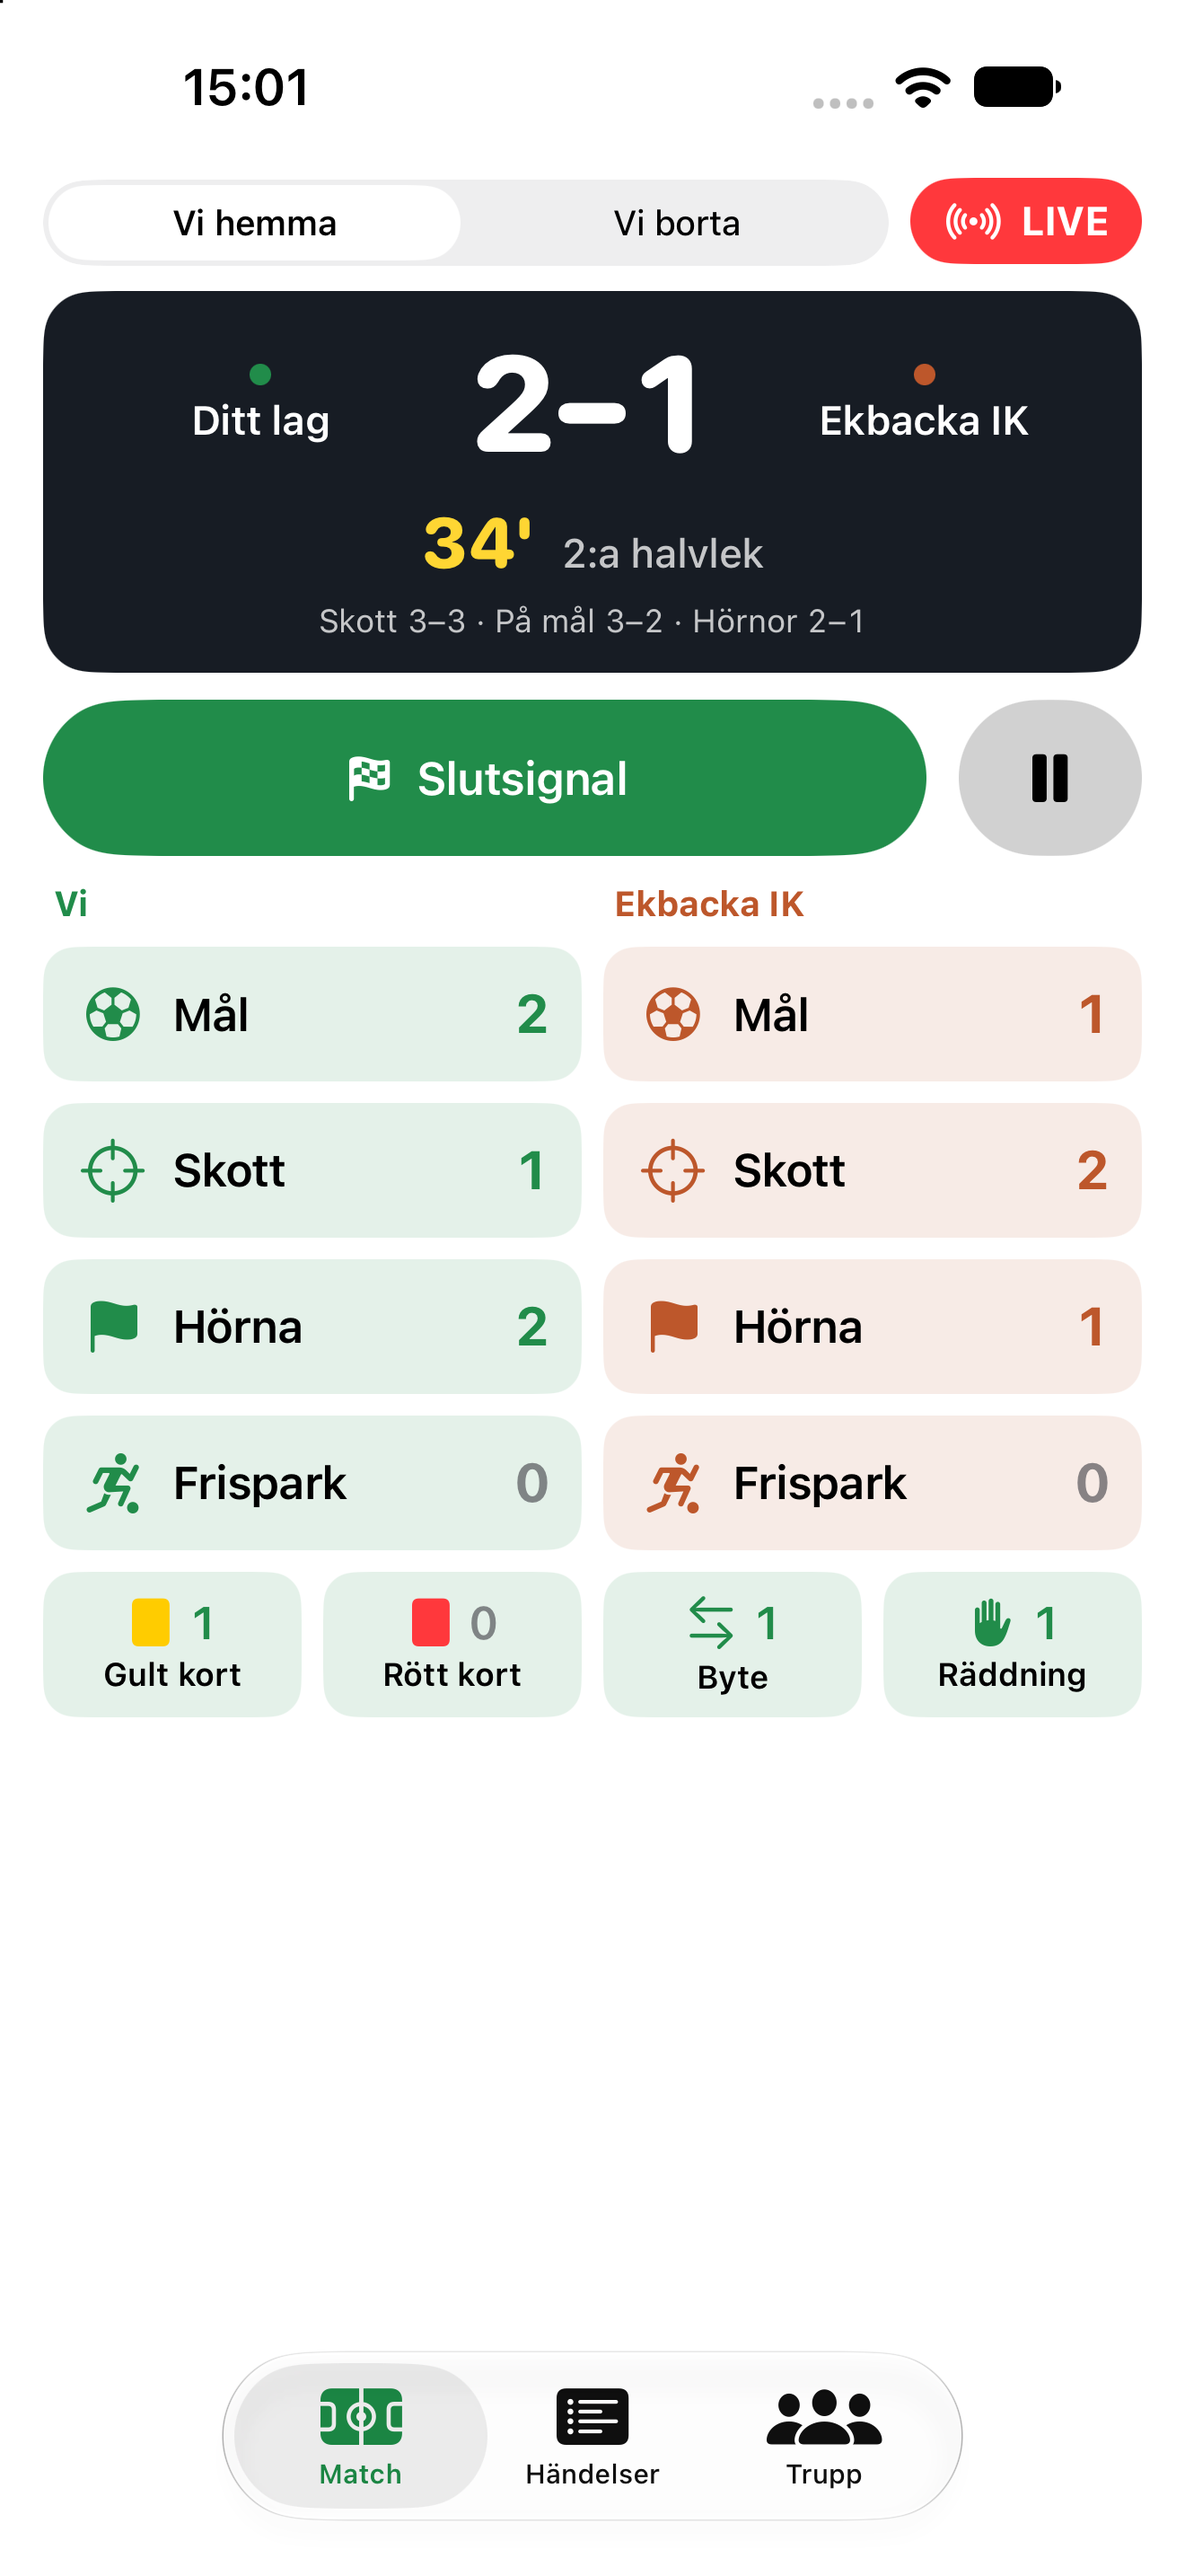
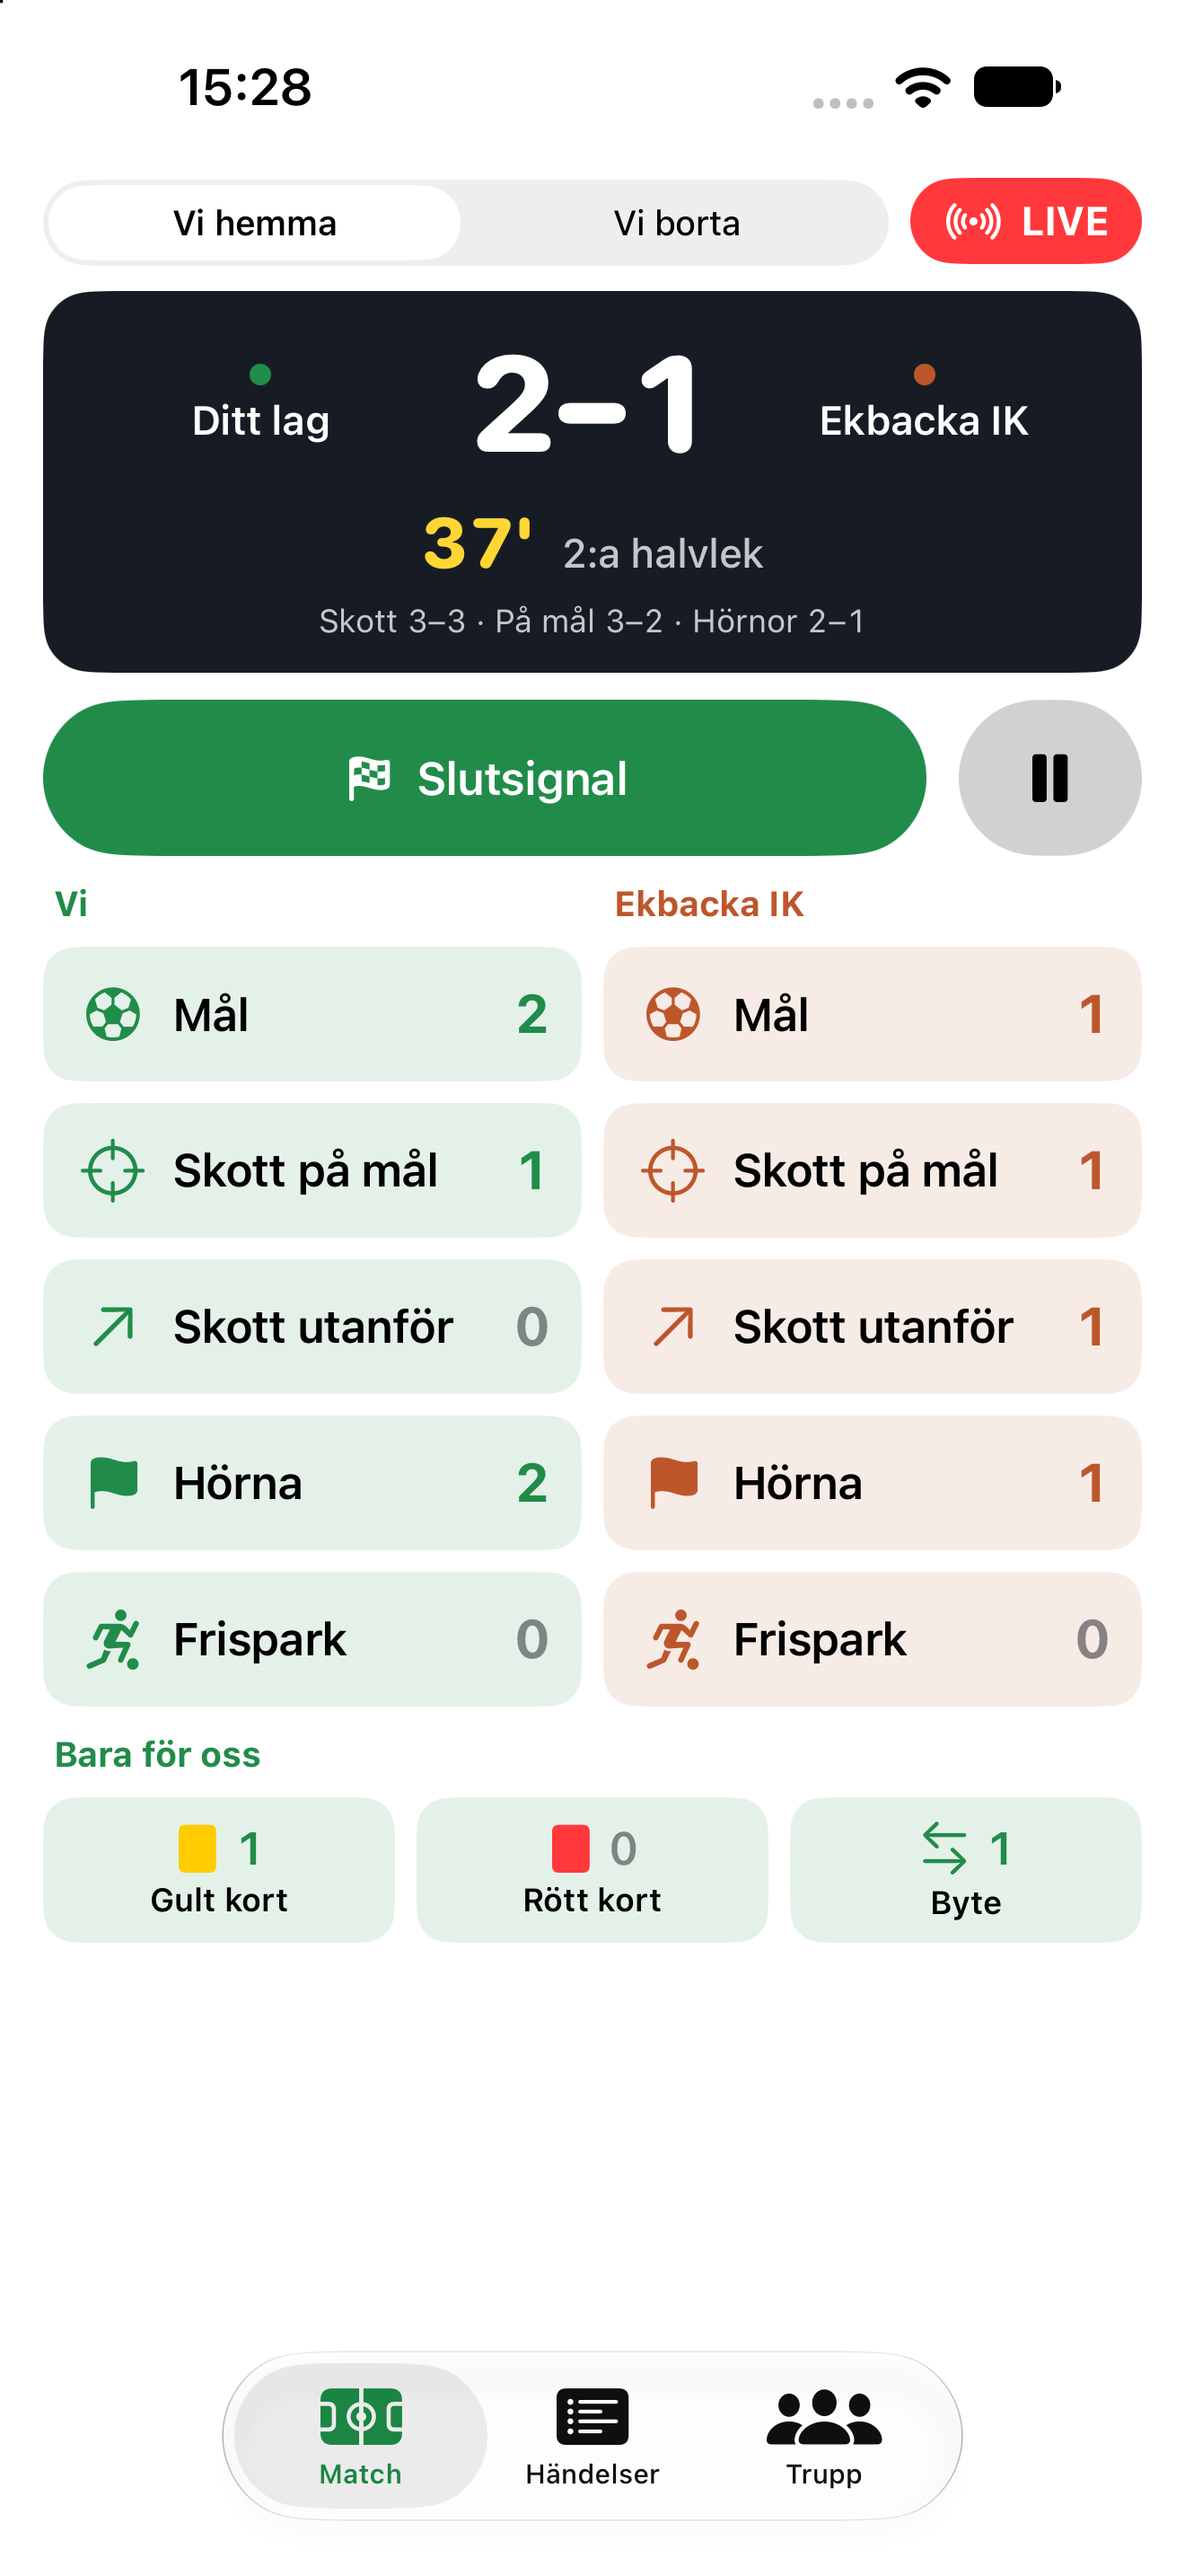
Skott på mål / skott utanför, räddning ingår i skott på mål, rubrik Bara för oss
- Två skottknappar per lag i stället för en med på mål/utanför/täckt.
  Motståndarens skott loggas med ett tryck, våra frågar efter skytt.
- Ett skott på mål som inte blir mål är en räddning ('Skott på mål, räddning'),
  så den separata Räddning-knappen är borta. Sparade räddningar och täckta skott migreras.
- Rubriken 'Bara för oss' ovanför gult/rött kort och byte.

diff --git a/Sources/MatchView.swift b/Sources/MatchView.swift
@@ -2,7 +2,7 @@ import SwiftUI
 
 enum Flow: Identifiable, Hashable {
     case goal
-    case shot(Side)
+    case shot(ShotResult)
     case card(EventKind)
     case sub
 
@@ -147,10 +147,15 @@ struct EventGrid: View {
     @Environment(MatchStore.self) private var store
     @Binding var flow: Flow?
 
+    private enum Action: Hashable {
+        case event(EventKind)
+        case shot(ShotResult)
+    }
+
     /// Events logged for both teams. The opponent is only a team name: no player data, no cards.
-    private let sharedRows: [EventKind] = [.goal, .shot, .corner, .freeKick]
+    private let sharedRows: [Action] = [.event(.goal), .shot(.onTarget), .shot(.off), .event(.corner), .event(.freeKick)]
     /// Events only we log, shown as one row of compact tiles.
-    private let ourOnly: [EventKind] = [.yellow, .red, .sub, .save]
+    private let ourOnly: [EventKind] = [.yellow, .red, .sub]
 
     var body: some View {
         let sides = [store.state.homeSide, store.state.awaySide]
@@ -160,10 +165,15 @@ struct EventGrid: View {
                     header(side == .us ? "Vi" : store.state.opponent, side)
                 }
             }
-            ForEach(sharedRows, id: \.self) { kind in
+            ForEach(sharedRows, id: \.self) { action in
                 GridRow {
-                    ForEach(sides, id: \.self) { side in button(kind, side) }
+                    ForEach(sides, id: \.self) { side in button(action, side) }
                 }
+            }
+            GridRow {
+                header("Bara för oss", .us)
+                    .gridCellColumns(2)
+                    .padding(.top, 2)
             }
             GridRow {
                 HStack(spacing: 8) {
@@ -183,16 +193,19 @@ struct EventGrid: View {
             .padding(.leading, 4)
     }
 
-    private func button(_ kind: EventKind, _ side: Side) -> some View {
+    private func button(_ action: Action, _ side: Side) -> some View {
         let color = Theme.color(side)
-        let count = store.state.count(kind, side)
-        return Button { tap(kind, side) } label: {
+        let (label, icon, count): (String, String, Int) = switch action {
+        case .event(let kind): (kind.label, kind.icon, store.state.count(kind, side))
+        case .shot(let result): (result == .onTarget ? "Skott på mål" : "Skott utanför", result.icon, store.state.shotCount(result, side))
+        }
+        return Button { tap(action, side) } label: {
             HStack(spacing: 8) {
-                Image(systemName: kind.icon)
+                Image(systemName: icon)
                     .font(.title3)
                     .foregroundStyle(color)
                     .frame(width: 28)
-                Text(kind.label)
+                Text(label)
                     .font(.headline)
                     .foregroundStyle(.primary)
                     .lineLimit(1)
@@ -208,12 +221,12 @@ struct EventGrid: View {
             .contentShape(RoundedRectangle(cornerRadius: 12))
         }
         .buttonStyle(.plain)
-        .accessibilityLabel("\(kind.label) \(store.state.teamName(side)), \(count)")
+        .accessibilityLabel("\(label) \(store.state.teamName(side)), \(count)")
     }
 
     private func tile(_ kind: EventKind) -> some View {
         let count = store.state.count(kind, .us)
-        return Button { tap(kind, .us) } label: {
+        return Button { flow = kind == .sub ? .sub : .card(kind) } label: {
             VStack(spacing: 2) {
                 HStack(spacing: 5) {
                     Image(systemName: kind.icon)
@@ -238,14 +251,12 @@ struct EventGrid: View {
         .accessibilityLabel("\(kind.label) Vi, \(count)")
     }
 
-    private func tap(_ kind: EventKind, _ side: Side) {
-        switch (kind, side) {
-        case (.goal, .us): flow = .goal
-        case (.shot, _): flow = .shot(side)
-        case (.yellow, .us), (.red, .us): flow = .card(kind)
-        case (.sub, .us): flow = .sub
-        case (.yellow, .them), (.red, .them), (.sub, .them), (.save, .them): break
-        default: store.log(kind, side: side)
+    private func tap(_ action: Action, _ side: Side) {
+        switch (action, side) {
+        case (.event(.goal), .us): flow = .goal
+        case (.shot(let result), .us): flow = .shot(result)
+        case (.shot(let result), .them): store.log(.shot, side: .them, shot: result)
+        case (.event(let kind), _): store.log(kind, side: side)
         }
     }
 }

diff --git a/Sources/FlowSheet.swift b/Sources/FlowSheet.swift
@@ -7,7 +7,6 @@ struct FlowSheet: View {
 
     @State private var step = 0
     @State private var firstPlayer: UUID?
-    @State private var shotResult: ShotResult?
 
     var body: some View {
         NavigationStack {
@@ -32,7 +31,7 @@ struct FlowSheet: View {
     private var title: String {
         switch flow {
         case .goal: "Mål – Vi"
-        case .shot(let side): "Skott – \(side == .us ? "Vi" : store.state.opponent)"
+        case .shot(let result): result == .onTarget ? "Skott på mål" : "Skott utanför"
         case .card(let kind): kind.label
         case .sub: "Byte"
         }
@@ -54,20 +53,9 @@ struct FlowSheet: View {
                     finish(.goal, .us, player: firstPlayer, otherPlayer: id)
                 }
             }
-        case .shot(let side):
-            if step == 0 {
-                ShotPicker { result in
-                    if side == .them {
-                        finish(.shot, .them, shot: result)
-                    } else {
-                        shotResult = result
-                        step = 1
-                    }
-                }
-            } else {
-                PlayerPicker(prompt: "Vem sköt?", players: state.onField, skip: "Hoppa över") { id in
-                    finish(.shot, .us, player: id, shot: shotResult)
-                }
+        case .shot(let result):
+            PlayerPicker(prompt: "Vem sköt?", players: state.onField, skip: "Hoppa över") { id in
+                finish(.shot, .us, player: id, shot: result)
             }
         case .card(let kind):
             PlayerPicker(prompt: "Vem fick kortet?", players: state.playingToday, skip: "Okänd") { id in
@@ -149,24 +137,5 @@ struct PlayerChip: View {
         .frame(maxWidth: .infinity, minHeight: 62)
         .background(Color(.secondarySystemBackground), in: RoundedRectangle(cornerRadius: 14))
         .contentShape(RoundedRectangle(cornerRadius: 14))
-    }
-}
-
-struct ShotPicker: View {
-    let pick: (ShotResult) -> Void
-
-    var body: some View {
-        VStack(alignment: .leading, spacing: 12) {
-            Text("Hur gick skottet?").font(.title3.bold())
-            ForEach(ShotResult.allCases, id: \.self) { result in
-                Button { pick(result) } label: {
-                    Label(result.label, systemImage: result.icon)
-                        .font(.title3.weight(.semibold))
-                        .frame(maxWidth: .infinity, minHeight: 58)
-                }
-                .buttonStyle(.bordered)
-                .tint(Theme.green)
-            }
-        }
     }
 }

diff --git a/Sources/Models.swift b/Sources/Models.swift
@@ -141,6 +141,15 @@ extension MatchState {
 
     func goals(_ side: Side) -> Int { count(.goal, side) }
 
+    /// Logged shots that were not goals; blocked shots from older versions count as off target.
+    func shotCount(_ result: ShotResult, _ side: Side) -> Int {
+        events.filter { e in
+            guard e.kind == .shot, e.side == side else { return false }
+            let onTarget = e.shot == nil || e.shot == .onTarget
+            return result == .onTarget ? onTarget : !onTarget
+        }.count
+    }
+
     /// Shots include goals.
     func shots(_ side: Side) -> Int {
         events.filter { $0.side == side && ($0.kind == .goal || $0.kind == .shot) }.count
@@ -206,8 +215,9 @@ extension MatchState {
             if let assist = name(e.otherPlayer) { text += ", assist \(assist)" }
             return text
         case .shot:
-            let result = (e.shot ?? .onTarget).label.lowercased()
-            return "Skott \(result)" + (who.map { " – \($0)" } ?? "")
+            // A shot on target that isn't a goal was saved by the other team's keeper.
+            let base = e.shot == .off || e.shot == .blocked ? "Skott utanför" : "Skott på mål, räddning"
+            return base + (who.map { " – \($0)" } ?? "")
         case .yellow, .red:
             return e.kind.label + (who.map { " – \($0)" } ?? "")
         case .sub:
@@ -277,7 +287,6 @@ extension MatchState {
             (26, .period, .us, nil, nil, nil, "Andra halvlek startar"),
             (26, .sub, .us, id(7), id(14), nil, nil),
             (28, .shot, .them, nil, nil, .onTarget, nil),
-            (28, .save, .us, nil, nil, nil, nil),
             (31, .goal, .us, id(9), id(14), nil, nil),
             (32, .corner, .us, nil, nil, nil, nil),
         ]

diff --git a/public/index.html b/public/index.html
@@ -258,7 +258,7 @@
         updatedAt: now - 20000, expireAt: now + 7 * 864e5,
         events: [
           ev("1'", "period", "us", "Avspark", "Match"),
-          ev("4'", "shot", "us", "Skott på mål – Elias (9)", "Ditt lag"),
+          ev("4'", "shot", "us", "Skott på mål, räddning – Elias (9)", "Ditt lag"),
           ev("6'", "corner", "us", "Hörna", "Ditt lag"),
           ev("9'", "goal", "us", "Mål! Selma (10), assist Wilma (8)", "Ditt lag"),
           ev("13'", "shot", "them", "Skott utanför", "Ekbacka IK"),
@@ -268,8 +268,7 @@
           ev("25'", "period", "us", "Halvtid 1–1", "Match"),
           ev("26'", "period", "us", "Andra halvlek startar", "Match"),
           ev("26'", "sub", "us", "Byte: Liam (7) ut, Freja (14) in", "Ditt lag"),
-          ev("28'", "shot", "them", "Skott på mål", "Ekbacka IK"),
-          ev("28'", "save", "us", "Räddning", "Ditt lag"),
+          ev("28'", "shot", "them", "Skott på mål, räddning", "Ekbacka IK"),
           ev("31'", "goal", "us", "Mål! Elias (9), assist Freja (14)", "Ditt lag"),
           ev("32'", "corner", "us", "Hörna", "Ditt lag"),
         ],

diff --git a/Sources/MatchStore.swift b/Sources/MatchStore.swift
@@ -20,7 +20,13 @@ final class MatchStore {
 
     init() {
         if let data = try? Data(contentsOf: Self.fileURL),
-           let saved = try? JSONDecoder().decode(MatchState.self, from: data) {
+           var saved = try? JSONDecoder().decode(MatchState.self, from: data) {
+            // Older versions logged saves separately and had blocked shots; a save is now
+            // implied by a shot on target, and blocked shots count as off target.
+            saved.events.removeAll { $0.kind == .save }
+            for index in saved.events.indices where saved.events[index].shot == .blocked {
+                saved.events[index].shot = .off
+            }
             state = saved
         } else {
             state = .example()
